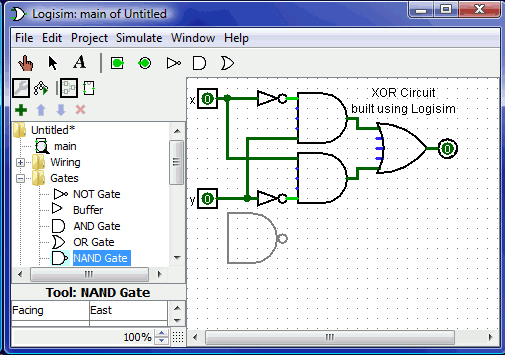
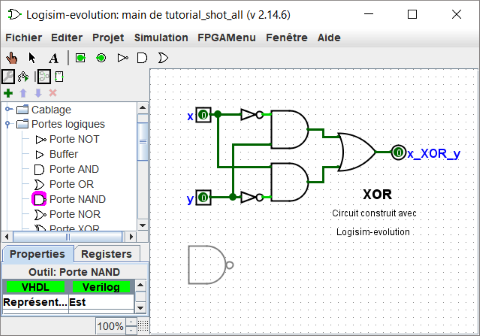
translation to fr step
Various corrections after proofreading

diff --git a/doc/fr/html/guide/attrlib/explore.html b/doc/fr/html/guide/attrlib/explore.html
@@ -7,16 +7,10 @@
 
 <h1>Le panneau de navigation</h1>
 
-<p>Logisim organise les outils dans des <strong>librairies</strong>. Elles sont
-	affichées comme des dossier dans la panneau de navigation; pour accéder aux composants
-	d'une librairie, il faut d'abord double cliquer sur le dossier correspondant.
-	Ci-dessous vous voyez ouverte la librairie des Portes logiques and le porte
-	NAND sélectionnée. Vous voyez que Logisim est maintenant prêt à ajouter des portes
-	NAND dans le circuit.</p>
+<p>Logisim organise les outils dans des <strong>librairies</strong>. Elles sont affichées comme des dossiers dans le panneau de navigation. Pour accéder aux composants d'une librairie, il faut d'abord double cliquer sur le dossier correspondant.
+Ci-dessous vous voyez ouverte la librairie des portes logiques et le porte NAND sélectionnée. Vous observez que Logisim est maintenant prêt à ajouter une porte NAND dans le circuit.</p>
 <center><img src="../../../img-guide/attrlib-nand-select.png"></center>
-<p>Si vous regarder le chois des portes logiques dans la librairie des portes logiques, 
-	vous remarquerez que n'avions pas le besoin de développer un circuit XOR auparavant:
-	c'est inclus dans Logisim.</p>
+<p>Si vous regarder le choix des portes logiques dans la librairie correspondante, vous remarquerez que n'avions pas le besoin de développer un circuit XOR auparavant: c'est inclus dans Logisim.</p>
 
 <p>Quand vous créez un projet, il inclut directement un certain nombre de librairies:</p>
 <ul>
@@ -25,64 +19,40 @@
 
 <li>Les portes logiques: Les composants qui réalisent de simples fonctions logiques.</li>
 
-<li>PLexeurs: Des composants combinatoires plus complexes comme des multiplexeurs et des décodeurs.</li>
+<li>Plexeurs: Des composants combinatoires plus complexes comme des multiplexeurs et des décodeurs.</li>
 
 <li>Arithmetique: Des composants qui effectuent des opérations arithmétiques.</li>
 
 <li>Mémoire: Des composant qui mémorisent des informations comme des bascules, des registres et de la RAM.</li>
 
-<li>I/O: Des composants qui sont là pour permettre des interactions avec l'utilisateur.</li>
+<li>Entrée/Sortie: Des composants qui sont là pour permettre des interactions avec l'utilisateur.</li>
 
-<li>Base: Des outils qui sont intégré dans l'interface de Logisim, c'est pourquoi vous n'aurez
-	probablement pas besoin d'ouvrir cette librairie.</li>
+<li>Base: Des outils qui sont intégrés dans l'interface de Logisim, c'est pourquoi vous n'aurez probablement pas besoin d'ouvrir cette librairie.</li>
 
 </ul>
 
-<p>Logisim vous permet d'ajouter plus de librairies en utilisant le sous-menu
-	charger une librairie dans le menu Projet.
-	Vous pouvez voir que Logisim a trois catégories de librairies.</p>
+<p>Logisim vous permet d'ajouter plus de librairies en utilisant le sous-menu charger une librairie dans le menu Projet.
+Logisim a trois catégories de librairies.</p>
 <ul>
 
-<li><strong>Les librairies intégrées</strong> sont des librairies qui sont distribuées
-	avec Logisim. Ces dernières sont documentées dans
-<em><a href="../../libs/index.html">Librairie de référence</a></em>.</p>
+<li><strong>Les librairies intégrées</strong> sont des librairies qui sont distribuées avec Logisim. Ces dernières sont documentées dans <em><a href="../../libs/index.html">Librairie de référence</a></em>.</p>
 
-<li><strong>Les librairies Logisim</strong> sont des projets construits dans 
-	Logisim et sauvegardées comme des projets logisim. Vous pouvez développer
-	un ensemble de circuits dans un seul projet (comme décrit dans la section
-<a href="../subcirc/index.html">Sous-circuit</a> de ce guide)
-et utiliser cet ensemble de circuit comme une librairie dans d'autres projets.</p>
+<li><strong>Les librairies Logisim</strong> sont des projets construits dans Logisim et sauvegardées comme des projets logisim. Vous pouvez développer 	un ensemble de circuits dans un seul projet (comme décrit dans la section <a href="../subcirc/index.html">Sous-circuit</a> de ce guide) et utiliser cet ensemble de circuit comme une librairie dans d'autres projets.</p>
 
-<li><strong>Les librairies JAR</strong> qui sont des librairie qui sont développées
-	en Java mais ne sont pas distribuées avec Logisim. Vous pouvez télécharger une 
-	librairie écrite par quelqu'un d'autre, ou vous pouvez écrire votre
-	propre librairie comme expliqué dans la section <a href="../jar/index.html">Librairies Jar</a> de ce guide.  
-	Développer une librairie JAR est bien plus difficile que de développer une librairie Logisim, mais
-	le composant peut être bien plus riche en incluant des attributs et des
-	interactions avec l'utilisateur.
-	Les librairies intégrées (autres que Base) sont écrites en utilisant les 
-	mêmes API que les librairies JAR. Elles démontrent donc les possibilités,
-	en terme de fonctionnalité, qu'une librairie JAR peut supporter.</p>
+<li><strong>Les librairies JAR</strong> sont des librairies développées en Java mais ne sont pas distribuées avec Logisim. Vous pouvez télécharger une librairie écrite par quelqu'un d'autre, ou vous pouvez écrire votre propre librairie comme expliqué dans la section <a href="../jar/index.html">Librairies Jar</a> de ce guide.  
+Développer une librairie JAR est bien plus difficile que de développer une librairie Logisim, mais 	le composant peut être bien plus riche en incluant des attributs et des interactions avec l'utilisateur.
+Les librairies intégrées (autres que Base) sont écrites en utilisant les mêmes API que les librairies JAR. Elles démontrent donc les possibilités, en terme de fonctionnalité, qu'une librairie JAR peut supporter.</p>
 
-<p>Certaines des librairies JAR sont distribuées sans aucune information à propos
-	d'avec quelle classe Java il faut débuter. Quand un tel JAR est chargé, Logisim 
-	vous demandera alors d'indiquer un nom de classe. Ce nom de classe devrait
-	être fourni par celui qui distribue le fichier JAR.</p>
+<p>Certaines des librairies JAR sont distribuées sans aucune information au sujet de la calsse java initial. Quand un tel JAR est chargé, Logisim vous demandera alors d'indiquer le nom de cette classe. Ce nom de la classe devrait être fourni par celui qui distribue le fichier JAR.</p>
 
 </ul>
 
-<p>Pour enlever une librairie, choisissez enelver Librairie ... depuis le 
-	menu Projet. Logisim vous empêchera d'enlever des librairies qui contiennent
-	des composant actuellement utilisées dans le circuit, qui apparaissent dans 
-	la barre d'outils ou qui sont liées au pointeur.</p>
+<p>Pour enlever une librairie, choisissez enlever Librairie ... depuis le 	menu Projet. Logisim vous empêchera d'enlever des librairies qui contiennent des composant actuellement utilisées dans le circuit, qui apparaissent dans la barre d'outils ou qui sont liées au pointeur.</p>
 
-<p>Par ailleurs, une librairie contient en fait d'un point de vue technique des outils, 
-	et non des composants. Par conséquent, dans la librairie de base vous trouvez l'outil Pousser
+<p>Par ailleurs, une librairie d'un point de vue technique contient des outils, et non des composants. Par conséquent, dans la librairie de base vous trouvez l'outil Pousser
 (<img src="../../../icons/poke.gif">), l'outil éditer
-(<img src="../../../icons/select.gif">), et d'autres outils qui ne
-correspondent pas directement à des composants particuliers.
-La plupart des librairies, contiennent malgré tout des outils pour ajouter 
-des composants; toutes les autres librairies que la librairie Base sont ainsi.</p>
+(<img src="../../../icons/select.gif">), et d'autres outils qui ne correspondent pas directement à des composants particuliers.
+La plupart des librairies contiennent des outils pour ajouter composants à nos circuits. Toutes les librairies a l'exception de Base sont ainsi.</p>
 
 <p><strong>Suivant:</strong> <a href="attr.html">La table des attributs</a>.</p>
 

diff --git a/doc/fr/html/guide/attrlib/tool.html b/doc/fr/html/guide/attrlib/tool.html
@@ -7,45 +7,20 @@
 
 <h1>Attributs des outils</h1>
 
-<p>Chaque outil pour ajouter des composants dans un circuit a aussi un ensemble
-	d'attributs, qui sont attribués aux composants créés par l'outils, bien 
-	que par la suite les attributs d'un composant puissent être modifiés indépendamment
-	des attributs de l'outil. Quand vous sélectionnez un outil, Logisim
-	va mettre à jour la table des attributs pour afficher les attributs de l'outil.</p>
+<p>Chaque outil qui permet d'ajouter des composants dans un circuit a aussi un ensemble d'attributs, qui initialise les nouveaux composants créés par l'outils. Par la suite il est possible de modifier les attributs d'un composant indépendamment des attributs de l'outil. Quand vous sélectionnez un outil, Logisim va mettre à jour la table des attributs pour afficher les attributs de l'outil.</p>
 
-<p>Supposons par exemple que nous voulions créer de plus petites portes AND.
-	Pour le moment, chaque fois que nous sélectionnions l'outil AND, il crée
-	une grande porte AND. Mais si nous éditons les attributs juste après
-	avoir sélectionné l'outil (avant de placer une porte AND dans le circuit), alors
-	nous allons changer les attributs pour l'outil, de cette façon les porte AND que nous
-	ajouterons dans le futur en utilisant cet outil seront plus petites.</p>
+<p>Supposons par exemple que nous voulions créer de plus petites portes AND. Actuellement, chaque fois que nous sélectionnions l'outil AND, il crée 	une grande porte AND. Mais si nous éditons les attributs juste après avoir sélectionné l'outil (avant de placer une porte AND dans le circuit), alors nous allons changer les attributs pour l'outil, de cette façon les porte AND que nous 	ajouterons dans le futur en utilisant cet outil seront plus petites.</p>
 <center><img src="../../../img-guide/attrlib-and-narrow.png"></center>
-<p>Maintenant, nous pouvons effacer les deux portes AND existantes et en 
-	ajouter de nouvelles à la place. Cette fois, elles seront plus petites.
-	(si vous choisissez de réduire le nombre d'entrées à 3, la porte logique
-	AND aura alors des extensions verticales à gauche. Mais vous devrez également
-	recâbler le circuit de façon à ce que les câbles atteignent le flanc gauche
-	de la porte AND.)</p>
+<p>Maintenant, nous pouvons effacer les deux portes AND existantes et en ajouter de nouvelles à la place. Cette fois, elles seront plus petites.
+(si vous choisissez de réduire le nombre d'entrées à 3, la porte logique AND aura alors des extensions verticales à gauche. Mais vous devrez également 	recâbler le circuit de façon à ce que les câbles atteignent le flanc gauche de la porte AND.)</p>
 <center><img src="../../../img-guide/attrlib-and-replace.png"></center>
-<p>Avec certains outils, l'icône de l'outil reflète certaines valeurs des
-	attributs. Un exemple de cela et l'outil Pin, dont l'icône s'affiche
-	selon ce que l'attribut affichage dit.</p>
+<p>Avec quelques outils, l'icône de l'outil reflète certaines valeurs des attributs. par exemple l'outil Pin, dont l'icône s'affiche selon l'etat des l'attributs (Ex:Sortie?,Data Bits,Trois état).</p>
 
-<p>Les outils dans la barre d'outils ont tous un ensemble d'attributs séparé 
-	de l'outil correspondant dans le panneau d'exploration. C'est pourquoi, 
-	même si nous changeons l'outil AND de la barre d'outils pour créer une
-	petite porte logique AND, la porte logique AND de la librairie restera
-	plus grande, sauf si nous changeons ses attributs </p>
+<p>Les outils dans la barre d'outils ont tous un ensemble d'attributs indépandnat de l'outil correspondant dans le panneau d'exploration. C'est pourquoi, même si nous changeons l'outil AND de la barre d'outils pour créer une petite porte logique AND, la porte logique AND de la librairie restera plus grande, sauf si nous changeons aussi ses attributs </p>
 
-<p>En fait, les outils pin dans la barre d'outil par défaut sont deux instance
-	des pins de la librairie de cablage, mais les ensembles d'attributs sont
-	différents. L'icône pour l'outil pin est représenté par un circle
-	dans un caré suivant la valeur de son attribut "Sortie ?"</p>
+<p>En fait, les outils pin dans la barre d'outil par défaut sont deux instance des pins de la librairie de cablage avec des ensembles d'attributs différents. L'icône pour l'outil pin est représenté par un cercle ou un caré suivant la valeur de son attribut "Sortie ?"</p>
 
-<p>Logisim fourni des raccourci pratiques pour changer l'attribut d'apparence
-	qui contrôle la direction dans laquelle se trouve la représentation du composant:
-	presser la touche flèche gauche quand l'outil est sélectionné va automatiquement
-	changer l'orientation du composant.</p>
+<p>Logisim fourni des raccourci pratiques pour changer l'attribut d'apparence qui contrôle l'orientation dans laquelle se trouve la représentation du composant: presser la touche flèche gauche quand l'outil est sélectionné va automatiquement changer l'orientation du composant.</p>
 
 <p><strong>Suivant:</strong> <em><a href="../index.html">Guide Utilisateur</a>.</em></p>
 

diff --git a/doc/fr/html/guide/attrlib/attr.html b/doc/fr/html/guide/attrlib/attr.html
@@ -7,47 +7,24 @@
 
 <h1>La table des attributs</h1>
 
-<p>La plupart des composants ont des <strong>attributs</strong>, qui sont 
-	des propriétés pour configurer comment les composants se comportent
-	et apparaissent. La <strong>table des attributs</strong> permet d'afficher
-	les valeurs des attributs.</p>
+<p>La plupart des composants ont des <strong>attributs</strong>, qui sont des propriétés pour configurer l'apparence et le comportement des composants. La <strong>table des attributs</strong> permet d'afficher les valeurs des attributs.</p>
 
-<p>Pour sélectionner les attributs d'un composant, cliquez sur le composant
-	en utilisant l'outil d'édition(<img src="../../../icons/select.gif">).
-	(Il est aussi possible de faire un clic droite (ou control-clic) sur le 
-	composant et choisir Afficher les attributs du menu contextuel. Il est 
-	aussi possible d'afficher les attributs du composant avec l'outil 
-	pousser
+<p>Pour sélectionner les attributs d'un composant, cliquez sur le composant en utilisant l'outil d'édition(<img src="../../../icons/select.gif">).
+Il est aussi possible de faire un clic droite (ou control-clic) sur le composant et choisir Afficher les attributs du menu contextuel ou encore en utilisant l'outil pousser
 (<img src="../../../icons/poke.gif">) ou l'outil texte
-(<img src="../../../icons/text.gif">) .)</p>
+(<img src="../../../icons/text.gif">) .</p>
 
-<p>L'écran ci-dessous illustre ce qui se passe après avoir sélectionné
-	l'entrée en haut d'un circuit XOR et de défiler en bas pour voir
-	le label Police de l'attribut.</p>
+<p>L'écran ci-dessous illustre ce qui se passe après avoir sélectionné l'entrée du haut du circuit XOR et de défiler la table vers le bas pour voir le champ attribut Police du Label et sa valeur.</p>
 <center><img src="../../../img-guide/attrlib-pin-attrib.png"></center>
 
-<p>Pour modifier la valeur d'un attribut, cliquez sur cette valeur.
-	L'interface de modification dépendra de quel attribut il s'agit de
-	modifier; dans le cas de la Police du label, une boîte de dialogue 
-	apparaîtra pour sélectionner la nouvelle police; mais dans le cas de certains
-	attributs (comme le label), il vous sera proposé un champ texte, 
-	alors que dans d'autre cas, un menu déroulant vous permettra
-	de sélectionner une valeur.</p>
+<p>Pour modifier la valeur d'un attribut, cliquez sur cette valeur.	L'interface de modification dépendra du type attribut à modifier. Dans le cas de la Police du Label, une boîte de dialogue 	apparaîtra pour sélectionner la nouvelle police; mais dans le cas de certains attributs (comme le label), il vous sera proposé un champ texte, alors que dans d'autre cas, un menu déroulant vous permettra de sélectionner une valeur.</p>
 
-<p>Chaque type de composant a un ensemble différent d'attributs; pour
-	apprendre ce qu'ils signifient, la document appropriée se trouve 
-	dans la 
+<p>Chaque type de composant a un ensemble différent d'attributs; pour apprendre ce qu'ils signifient, la document appropriée se trouve dans la 
 <a href="../../libs/index.html">Librairie de références</a>.</p>
 
-<p>Si vous avez sélectionné plusieurs composant en utilisant l'outil
-	d'édition, alors la table d'attribut ne montrer que les attributs communs
-	aux différents composants sélectionnés (à l'exclusion des câbles). Si les
-	composants sélectionnés n'ont pas la même valeur pour un attribut, alors 
-	la valeur pour cette attribut sera un espace blanc. Vous pouvez changer
-	la valeur pour tous les attributs sélectionné en une fois en éditant cette
-	valeur.</p>
+<p>Si vous avez sélectionné plusieurs composant en utilisant l'outil d'édition, alors la table d'attribut ne presentera que les attributs communs aux différents composants sélectionnés (à l'exclusion des câbles). Si les composants sélectionnés n'ont pas la même valeur pour un attribut, alors la valeur pour cette attribut sera un espace blanc. Vous pouvez changer la valeur pour tous les attributs sélectionné en une fois en l'éditant.</p>
 
-<p><strong>Suivant:</strong> <a href="tool.html">L'outil attributs'</a>.</p>
+<p><strong>Suivant:</strong> <a href="tool.html">L'outil attributs</a>.</p>
 
 </body>
 </html>

diff --git a/doc/fr/html/guide/tutorial/tutor-gates.html b/doc/fr/html/guide/tutorial/tutor-gates.html
@@ -16,10 +16,10 @@
 La première chose que nous allons faire c'est d'ajouter deux portes AND (portes ET).
 Cliquez sur l'outil AND dans la barre d'outils ( 
 <img src="../../../img-guide/tutorial-toolsbar-and.png">, l'avant dernier outil listé ).<br>
-Ensuite cliquez sur l'aire d'édition ou vous voulez placer la première porte logique AND.
+Ensuite cliquez sur l'aire d'édition à l'endroit ou vous désirez placer la première porte logique AND.
 Faites attention à laisser suffisamment de place à gauche. Ensuite cliquez à nouveau sur l'outil et placez la deuxième porte AND juste en dessous.</p>
 <center><img src="../../../img-guide/tutorial-shot-ands.png"></center>
-<p>Prenez note des cinq point sur la partie gauche de la porte logique AND. Ce sont les	emplacements ou les câbles peuvent être connectés. Il se trouve que nous n'en utiliserons que deux pour notre circuit XOR; mais pour d'autres circuits, vous pourriez trouver utile d'avoir plus de deux câbles arrivant à une porte logique AND.</p>
+<p>Prenez note des deux points sur la partie gauche de la porte logique AND. Ce sont les	emplacements ou les câbles peuvent être connectés. Il se trouve que nous n'en utiliserons que deux pour notre circuit XOR; mais pour d'autres circuits, vous pourriez trouver utile d'avoir plus de deux câbles arrivant à une porte logique AND. C'est modifiable dans les propriétés</p>
 
 <p>Maintenant ajoutez les autres portes. D'abord cliquez sur l'outil OR
 (<img src="../../../img-guide/tutorial-toolsbar-or.png">);
@@ -40,7 +40,7 @@ Vous devez également placer un pin de sortie à côté de la sortie de la porte
 (<img src="../../../icons/select.gif">)
 et le déplacer à l'endroit souhaité. Ou vous pouvez le supprimer complètement en sélectionnant l'outil effacer dans le menu Editer ou en pressant la touche effacer.</p>
 
-<p>Alors que vous disposez chaque composant sur le circuit, vous remarquerez qu'aussitôt le composant placé, Logisim revient à l'outil d'édition de telle façon pour permetre de déplacer le composant qui vient d'être placé ou (comme nous le verrons) connecter le composant à d'autres en créant des câbles. Si vous voulez ajouter une copie du composant nouvellement placé, il suffit de presser Control-D pour dupliquer la sélection.
+<p>Alors que vous disposez chaque composant sur le circuit, vous remarquerez qu'aussitôt le composant placé, Logisim revient à l'outil d'édition de telle façon à permetre de déplacer le composant qui vient d'être placé ou (comme nous le verrons) connecter le composant à d'autres en créant des câbles. Si vous voulez ajouter une copie du composant nouvellement placé, il suffit de presser Control-D pour dupliquer la sélection.
 (Certains systèmes utilisent d'autres touches, comme la touche commande sur les systèmes OSX. Il faut alors adapter).</p>
 
 <p><b>Suivant:</b> <a href="tutor-wires.html">Etape 2: Ajouter des câbles</a></p>

diff --git a/doc/fr/html/guide/tutorial/tutor-orient.html b/doc/fr/html/guide/tutorial/tutor-orient.html
@@ -10,14 +10,15 @@
 <h2>Etape 0: S'orienter</h2>
 
 <p>Lorsque vous démarrer Logisim, vous verrez une fenêtre semblable à l'llustration suivante.
-	Certains détails pourraient être légèrement différents suivant le système utilisé.</p>
+Certains détails pourraient être légèrement différents suivant le système utilisé.</p>
 
 <center><img src="../../../img-guide/tutorial-shot-blank.png"></center>
 
-<p>L'espace de Logisim est divisé en trois parties appelées le <em>panneau de navigation</em>, la <em>table des attributs</em>, et la <em>surface de travail</em> (ou zone d'édition). Au dessus de ces trois parties se trouvent la <em>barre de menu</em> et la <em>barre d'outils</em>.
-<center><img src="../../../img-guide/tutorial-shot-labeled.png"></center> Nous pouvons rapidement mettre de côté le panneau de navigation et la table des attributs: nous ne les examinerons pas dans ce tutoriel, et vous pouvez juste les ignorer. Par ailleurs, la barre de menu s'explique d'elle-même.</p>
+<p>L'espace de Logisim est divisé en trois parties appelées le <em>panneau de navigation</em>, la <em>table des attributs</em>, et la <em>surface de travail</em> (ou zone d'édition). Au dessus de ces trois parties se trouvent la <em>barre de menu</em> et la <em>barre d'outils</em>.</p>
+<center><img src="../../../img-guide/tutorial-shot-labeled.png"></center>
+<p>Nous pouvons rapidement mettre de côté le panneau de navigation et la table des attributs: nous ne les examinerons pas dans ce tutoriel, et vous pouvez juste les ignorer. Par ailleurs, la barre de menu s'explique d'elle-même.</p>
 
-<p>Il nous reste la barre d'outils et la surface de travail. La surface de travail et l'endroit ou vous dessinez votre circuit; et la barre d'outils contient les outils qui nous permettrons d'y arriver.</p>
+<p>Il nous reste la barre d'outils et la surface de travail. La surface de travail et l'espace ou vous dessinez votre circuit; et la barre d'outils contient les outils qui nous permettrons d'y arriver.</p>
 
 <p><b>Suivant:</b> <a href="tutor-gates.html">Etape 1: Ajouter des portes logiques</a></p>
 

diff --git a/doc/fr/html/guide/subcirc/appear.html b/doc/fr/html/guide/subcirc/appear.html
@@ -37,7 +37,7 @@ la disposition du multiplexeur 4:1 se présente naturellement comme suit.</p>
 <li><p>Un cercle vert avec une ligne sortante, que nous appellerons <q>ancre</q> (<img src = "../../../img-guide/anchor.png" ALIGN="TOP">).
 Il y a exactement une ancre dans chaque apparence d'un sous-circuit.
 Chaque composant d'un circuit a un seul point pour identifier sa position sur le dessin;
-Un utilisateur observe cela lors de la création d'un nouveau composant: le click de la souris identifie un seul point de l'écran et le composant est placé par rapport à ce point.
+Un utilisateur observe cela lors de la création d'un nouveau composant: le clic de la souris identifie un seul point de l'écran et le composant est placé par rapport à ce point.
 L'ancre sera alignée avec ce point du dessin global lorsque le sous-circuit est créé et dessiné.</p>
 
 <p>L'ancre indique aussi l'orientation du composant quand il est pausé dans le dessin, elle en est le centre de rotation. L'orientation est indiquée par la direction de la ligne qui pointe du cercle.
@@ -69,8 +69,8 @@ La touche Maj enfoncée orientera les lignes dans un multiple de 45&deg.</p>
   <td>Crée un segment de ligne. Maj + Glisser : La ligne sera dans un angle multiple de 45&deg.</td></tr>
 <tr><td valign="top"><img src="../../../icons/drawcurv.gif"></td>
   <td>Crée une courbe de Bezier.
-Le premier click et glisser spécifie le début de la ligne, le second click et glisser termine la ligne et définit la courbure.
-Un click sur la ligne vous montre les points de contrôle.
+Le premier clic et glisser spécifie le début de la ligne, le second clic et glisser termine la ligne et définit la courbure.
+Un clic sur la ligne vous montre les points de contrôle.
 Maj et point central de contrôle imposent une courbe symétrique.
 Alt et point central dessine la courbe au travers du point de contrôle (sous la souris).</td></tr>
 <tr><td valign="top"><img src="../../../icons/drawplin.gif"></td>

diff --git a/doc/fr/html/guide/tutorial/index.html b/doc/fr/html/guide/tutorial/index.html
@@ -10,14 +10,14 @@
 
 <p>Bienvenu à Logisim!</p>
 
-<p>Logisim vous permet de dessiner et simuler des circuits digitaux. Il est destiné à être utilisé comme un outil d'enseignement, pour 	vous aider à apprendre comme de tels circuits fonctionnent.</p>
+<p>Logisim vous permet de dessiner et simuler des circuits digitaux. Il est destiné à être utilisé comme un outil d'enseignement, pour 	vous aider à apprendre comment de tels circuits fonctionnent.</p>
 
 <p>Comme premier exercice pratique, construisons un circuit XOR: c'est un circuit qui prend deux entrées (que nous appellerons <em>x</em> et <em>y</em>) et dont la sortie est 0 si les deux entrées sont identiques et 1 si elles sont différentes. 
 La table de vérité suivante illustre ce fonctionnement.</p>
 <center><img src="../../../img-guide/tutorial-xor-table.png"></center>
 <p>Nous pouvons dessiner un tel circuit sur le papier.</p>
 <center><img src="../../../img-guide/tutorial-xor-circ.png"></center>
-<p>Mais justement, parce que c'est sur le papier, cela ne signifie pas que c'est correcte. Pour vérifier notre travail, nous allons le dessiner dans Logisim et le tester et comme bonus supplémentaire, nous obtiendrons un circuit qui présente bien mieux que ce que nous aurions pu dessiner à la main.</p>
+<p>Mais justement, parce que c'est sur le papier, cela ne signifie pas que c'est fonctionel. Pour vérifier notre travail, nous allons le dessiner dans Logisim et le tester et comme bonus supplémentaire, nous obtiendrons un circuit qui présente bien mieux que ce que nous aurions pu dessiner à la main.</p>
 
 <p><a href="tutor-orient.html">Etape 0: S'orienter</a>
 <br><a href="tutor-gates.html">Etape 1: Ajouter des portes logiques</a>

diff --git a/doc/fr/html/guide/tutorial/tutor-text.html b/doc/fr/html/guide/tutorial/tutor-text.html
@@ -14,8 +14,18 @@
 <p>Sélectionnez l'outil texte
 (<img src="../../../icons/text.gif">).
 Vous pouvez cliquer sur un pin d'entrée et commencer à taper pour lui assigner une étiquette. (Il est préférable de cliquer directement sur le pin d'entrée plutôt que de cliquer à l'endroit où vous voulez placer le texte, car de cette manière l'étiquette se déplacera avec le pin).
-Vous pouvez faire pareil avec le pin de sortie. Ou vous pouvez juste cliquer sur n'importe quel ancien emplacement et commencer à taper du texte pour mettre une étiquette n'importe où ailleurs.
+Vous pouvez faire de même avec le pin de sortie. Ou vous pouvez juste cliquer sur n'importe quel ancien emplacement et commencer à taper du texte pour mettre une étiquette n'importe où ailleurs.</p>
 <center><img src="../../../img-guide/tutorial-shot-all.png"></center></p>
+<P>Beaucoup de composants acceptent des labels, par exemple si vous cliquez dans une des portes vous pouvez lui donner un label</p>
+<center><img src="../../../img-guide/tutorial-shot-labeland.png"></center></p>
+<p>Il est possible de modifier un label de plusieurs autres manières.
+<ul>
+Avec un double clic sur le composant avec l'outil d'édition(<img src="../../../icons/select.gif">).<br>
+Avec un clic sur un label avec l'outil text(<img src="../../../icons/text.gif">).<br>
+En modifiant la propriété label dans la fenêtre de propriété.<br>
+</ul>
+
+<center><img src="../../../img-guide/tutorial-shot-all2.png"></center></p>
 
 <p><b>Suivant:</b> <a href="tutor-test.html">Etape 4: Tester votre circuit</a></p>
 

diff --git a/doc/fr/html/contents.html b/doc/fr/html/contents.html
@@ -30,13 +30,13 @@
   	<li><a id="bundles_splitting">Eclaté</a></li>
   	<li><a id="bundles_colors">Couleur des câbles</a></li>
   </ul></li>
-  <li><a id="analyze">Analyse combinatoire</a><ul>
+<!--  <li><a id="analyze">Analyse combinatoire</a><ul>
   	<li><a id="analyze_open">Ouvrir l'analyse combinatoire</a></li>
   	<li><a id="analyze_table">Editer la table de vérité</a></li>
   	<li><a id="analyze_expr">Créer des expressions</a></li>
   	<li><a id="analyze_gen">Générer un circuit</a></li>
   </ul></li>
-  <li><a id="menu">Manuel des menus</a><ul>
+-->  <li><a id="menu">Manuel des menus</a><ul>
   	<li><a id="menu_file">Menu fichier</a></li>
   	<li><a id="menu_edit">Menu éditer</a></li>
   	<li><a id="menu_project">Menu projet</a></li>
@@ -84,7 +84,7 @@
   	<li><a id="jar_guide">Recommandations</a></li>
   </ul></li>
   <li><a id="about">A propos du programme</a><ul>
-  	<li><a id="about_gpl">GNU General Public License</a></li>
+  <li><a id="about_gpl">GNU General Public License</a></li>
   </ul></li>
 </ul>
 

diff --git a/doc/fr/html/guide/subcirc/using.html b/doc/fr/html/guide/subcirc/using.html
@@ -11,7 +11,7 @@
 Pour ajouter les multiplexeurs 2-to-1 nous cliquons une <em>fois</em> sur le circuit "Mux_2To1" dans l'explorateur du projet pour le sélectionner comme un outil. Ensuite, nous pouvons le placer sur le schéma en cliquant sur la page.
 </p>
 <center><img src="../../../img-guide/subcirc-4-add.png"></center>
-<p>Si vous faites un double-click sur le circuit "Mux_2To1" dans l'explorateur de projet la page bascule sur l'édition de ce circuit "Mux_2To1" et quitte le circuit "Mux_4To1"</p>
+<p>Si vous faites un double-clic sur le circuit "Mux_2To1" dans l'explorateur de projet la page bascule sur l'édition de ce circuit "Mux_2To1" et quitte le circuit "Mux_4To1"</p>
 
 <p>Après avoir dessiné le nouveau circuit, il peut ressembler à ceci.</p>
 <center><img src="../../../img-guide/subcirc-4-done.png"></center>

diff --git a/doc/fr/html/guide/subcirc/library.html b/doc/fr/html/guide/subcirc/library.html
@@ -2,10 +2,9 @@
 <meta charset="UTF-8">
 <head>
 <title>Logisim libraries</title>
-<link rel="stylesheet" href="..\styles.css">
 </head>
 
-<body bgcolor="e0e0e0">
+<body bgcolor="ffffff">
 
 <h1>Librairie Logisim</h1>
 
